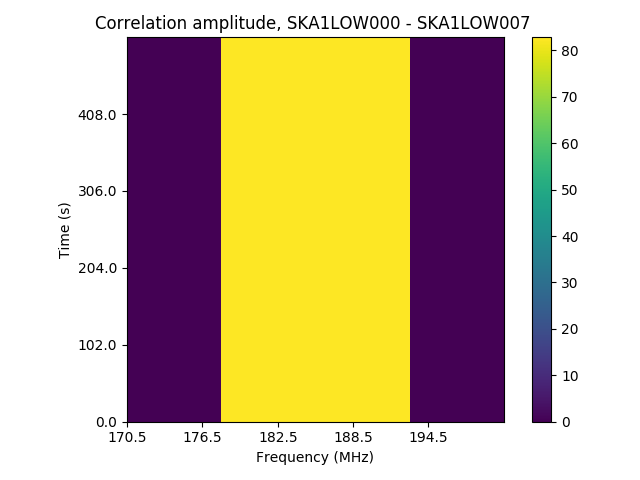
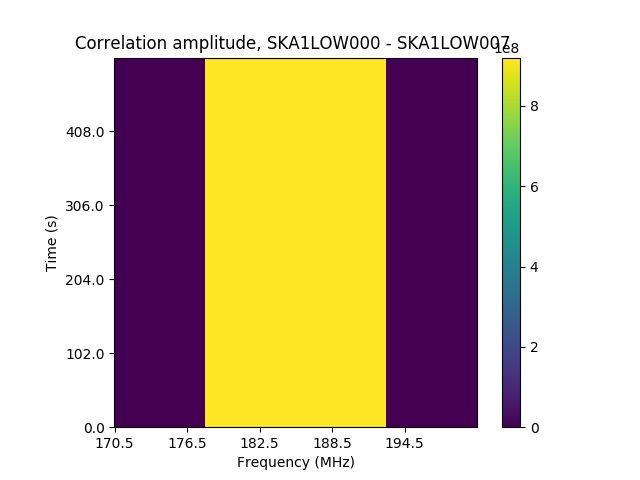
Transittion to ARL version

Changed region(s): [[0.0625, 0.0312, 0.9062, 1.0]]

diff --git a/arl_simulation/simulate_low_rfi.py b/arl_simulation/simulate_low_rfi.py
@@ -8,6 +8,7 @@ from astropy import units as u
 from astropy.coordinates import SkyCoord, EarthLocation
 
 from processing_library.util.array_functions import average_chunks
+from simulate_rfi_block import simulate_rfi_block
 from rfi_simulation import create_propagators, calculate_averaged_correlation, calculate_rfi_at_station, \
     calculate_station_correlation_rfi, calculate_station_fringe_rotation, generate_DTV, add_noise
 from wrappers.arlexecute.simulation.configurations import create_named_configuration
@@ -48,13 +49,13 @@ if __name__ == '__main__':
     sample_freq = 3e4
     nchannels = 1000
     frequency = 170.5e6 + numpy.arange(nchannels) * sample_freq
-    channel_average = 4
+    channel_average = 16
     print("%d frequency channels of width %.g MHz" % (nchannels, sample_freq*1e-6))
     
     ntimes = 1020
     integration_time = 0.5
     times = numpy.arange(ntimes) * integration_time
-    time_average = 4
+    time_average = 16
     print("%d integrations of duration %g (s)" % (ntimes, integration_time))
     
     phasecentre = SkyCoord(ra=+30.0 * u.deg, dec=-45.0 * u.deg, frame='icrs', equinox='J2000')
@@ -63,7 +64,7 @@ if __name__ == '__main__':
     site = EarthLocation(lon="116.76444824", lat="-26.824722084", height=300.0)
     
     # Perth from Google for the moment
-    perth = EarthLocation(lon="115.8605", lat="-31.9505", height=0.0)
+    emitter_location = EarthLocation(lon="115.8605", lat="-31.9505", height=0.0)
     
     rmax = 3000.0
     low = create_named_configuration('LOWR3', rmax=rmax)
@@ -71,98 +72,15 @@ if __name__ == '__main__':
     low.data = low.data[::antskip]
     nants = len(low.names)
     print("There are %d stations" % nants)
+
+    correlation, uvw = simulate_rfi_block(low, times, frequency, phasecentre, emitter_location=emitter_location,
+                                          emitter_power=5e4, attenuation=1.0)
     
-    # Calculate the power spectral density of the DTV station: Watts/Hz
-    emitter = generate_DTV(frequency, times, power=50e3, timevariable=False)
-    
-    plt.clf()
-    plt.imshow(numpy.abs(emitter), origin='bottom')
-    add_ticks(plt, 1e-6*frequency, times)
-    plt.title('DTV Power Spectral Density')
-    plt.xlabel('Frequency (MHz)')
-    plt.ylabel('Time (s)')
-    cbar = plt.colorbar()
-    cbar.set_label('Emission (Watts/Hz)', rotation=270)
-    plt.tight_layout()
-    plt.savefig("Emission.png")
-    plt.show(block=False)
-    
-    # Calculate the propagators for signals from Perth to the stations in low
-    # These are fixed in time but vary with frequency. The ad hoc attenuation
-    # is set to produce signal roughly equal to noise at LOW
-    attenuation = 3e-4
-    propagators = create_propagators(low, perth, frequency=frequency, attenuation=attenuation)
-    
-    plt.clf()
-    for i in range(0, propagators.shape[0], 33):
-        plt.plot(frequency, numpy.angle(propagators[i, :]), '-', label=str(i))
-    plt.title("Propagator phases, Perth to LOW, rmax = %.1f (m)" % rmax)
-    plt.xlabel('Frequency (MHz)')
-    plt.ylabel('Phase (rad)')
-    plt.savefig("propagators.png")
-    plt.show(block=False)
-    
-    # Now calculate the RFI at the stations, based on the emitter and the propagators
-    rfi_at_station = calculate_rfi_at_station(propagators, emitter)
-    
-    plt.clf()
-    plt.imshow(numpy.abs(rfi_at_station[0, ...]), origin='bottom')
-    add_ticks(plt, times, 1e-6*frequency)
-    plt.title('RFI at station, amplitude, with respect to station %s' % low.names[0])
-    plt.xlabel('Time (s)')
-    plt.ylabel('Frequency (MHz)')
-    plt.savefig("rfi_at_station_phase.png")
-    plt.show(block=False)
-    
-    plt.clf()
-    plt.imshow(numpy.angle(rfi_at_station[0, ...]))
-    add_ticks(plt, 1e-6*frequency, times)
-    plt.title('RFI at station, phase, with respect to station %s' % low.names[0])
-    plt.xlabel('Frequency (Hz)')
-    plt.ylabel('Time')
-    plt.savefig("rfi_at_station_amplitude.png")
-    plt.show(block=False)
-    
-    # Station fringe rotation: shape [nants, ntimes, nchan] complex phasor to be applied to
-    # reference to the pole.
-    fringe_rotation, uvw = calculate_station_fringe_rotation(low.xyz, times, frequency, phasecentre, pole)
-    plt.clf()
-    plt.imshow(numpy.angle(fringe_rotation[1, :, :]), origin='bottom')
-    add_ticks(plt, 1e-6 * frequency, times)
-    plt.title('Fringe rotation phase, %s' % low.names[1])
-    plt.xlabel('Frequency (MHz)')
-    plt.ylabel('Times (s)')
-    plt.savefig("fringe_rotation.png")
-    plt.show(block=False)
-    
-    # Calculate the rfi correlationm using the fringe rotation and the rfi at the station
-    # [nants, nants, ntimes, nchan]
-    correlation = calculate_station_correlation_rfi(fringe_rotation, rfi_at_station)
     print("RMS interference per sample = %g Jy" % numpy.std(numpy.real(correlation)))
     noise = False
     if noise:
         correlation = add_noise(correlation, sample_freq, integration_time)
         print("RMS interference + noise per sample = %g Jy" % numpy.std(numpy.real(correlation)))
-
-    for ant in [1]:
-        plt.clf()
-        plt.imshow(numpy.angle(correlation[0, ant, :, :]), origin='bottom')
-        add_ticks(plt, 1e-6 * frequency, times)
-        plt.title('Correlation phase, %s - %s ' % (low.names[0], low.names[ant]))
-        plt.xlabel('Frequency (MHz)')
-        plt.ylabel('Time (s)')
-        plt.savefig("correlation_phase.png")
-        plt.show(block=False)
-        
-        plt.clf()
-        plt.imshow(numpy.abs(correlation[0, ant, :, :]), origin='bottom')
-        add_ticks(plt, 1e-6 * frequency, times)
-        plt.title('Correlation amplitude, %s - %s ' % (low.names[0], low.names[ant]))
-        plt.xlabel('Frequency (MHz)')
-        plt.ylabel('Time (s)')
-        plt.colorbar()
-        plt.savefig("correlation_amplitude.png")
-        plt.show(block=False)
     
     # Integrate the correlation over time and frequency
     if channel_average > 1 or time_average > 1:

diff --git a/arl_simulation/simulate_rfi_block.py b/arl_simulation/simulate_rfi_block.py
@@ -1,0 +1,41 @@
+from astropy import units as u
+from astropy.coordinates import SkyCoord
+
+from rfi_simulation import create_propagators, calculate_rfi_at_station, \
+    calculate_station_correlation_rfi, calculate_station_fringe_rotation, generate_DTV
+
+
+def simulate_rfi_block(config, times, frequency, phasecentre, emitter_location, emitter_power=5e4,
+                       attenuation=1.0):
+    """ Simulate RFI block
+    
+    :param config: ARL telescope Configuration
+    :param times: observation times (hour angles)
+    :param frequency: frequencies
+    :param phasecentre:
+    :param emitter_location: EarthLocation of emitter
+    :param emitter_power: Power of emitter
+    :param attenuation: Attenuation to be applied to signal
+    :return:
+    """
+    # Calculate the power spectral density of the DTV station: Watts/Hz
+    emitter = generate_DTV(frequency, times, power=emitter_power, timevariable=False)
+    
+    # Calculate the propagators for signals from Perth to the stations in low
+    # These are fixed in time but vary with frequency. The ad hoc attenuation
+    # is set to produce signal roughly equal to noise at LOW
+    propagators = create_propagators(config, emitter_location, frequency=frequency,
+                                     attenuation=attenuation)
+    # Now calculate the RFI at the stations, based on the emitter and the propagators
+    rfi_at_station = calculate_rfi_at_station(propagators, emitter)
+    
+    # Station fringe rotation: shape [nants, ntimes, nchan] complex phasor to be applied to
+    # reference to the pole.
+    pole = SkyCoord(ra=+0.0 * u.deg, dec=-90.0 * u.deg, frame='icrs', equinox='J2000')
+    fringe_rotation, uvw = calculate_station_fringe_rotation(config.xyz, times, frequency, phasecentre, pole)
+    
+    # Calculate the rfi correlationm using the fringe rotation and the rfi at the station
+    # [nants, nants, ntimes, nchan]
+    correlation = calculate_station_correlation_rfi(fringe_rotation, rfi_at_station)
+    
+    return correlation, uvw
